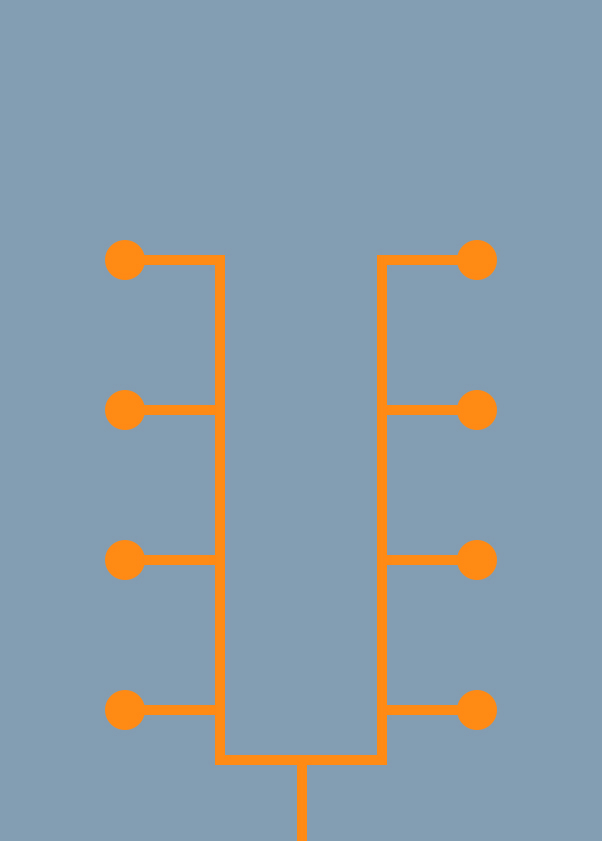
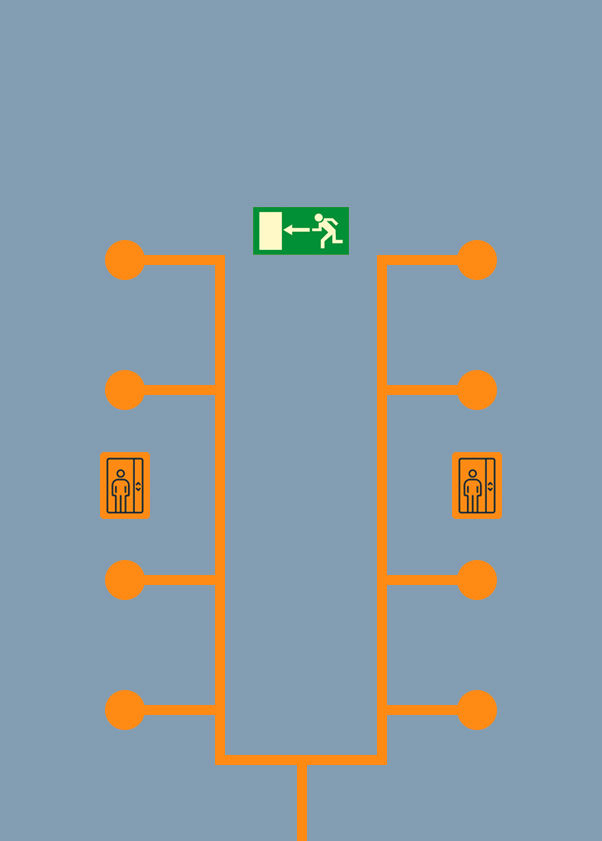
Modified the background in the selection page.

Changed region(s): [[0.1495, 0.4328, 0.3588, 0.7111], [0.6279, 0.4328, 0.8372, 0.7111], [0.4186, 0.2473, 0.598, 0.3092]]

diff --git a/TargetDecision/static/buttons.css b/TargetDecision/static/buttons.css
@@ -128,11 +128,11 @@ button {
 }
 
 #id_2, #id_6 {
-    top: 375px;
+    top: 355px;
 }
 
 #id_1, #id_5 {
-    top: 525px;
+    top: 545px;
 }
 
 #id_0, #id_4 {
